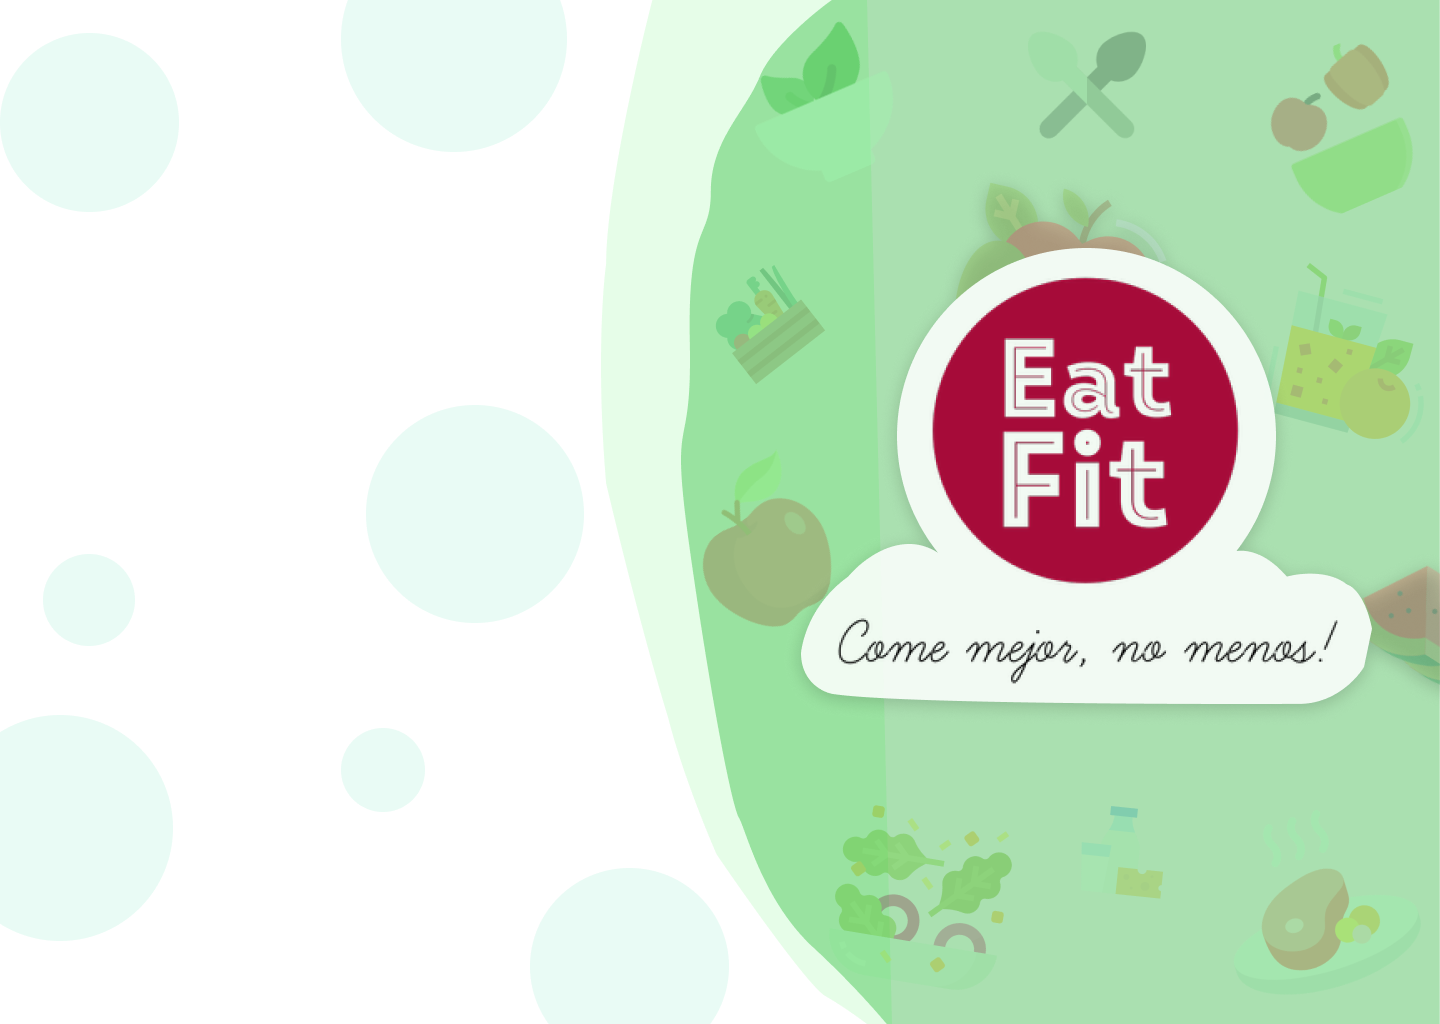
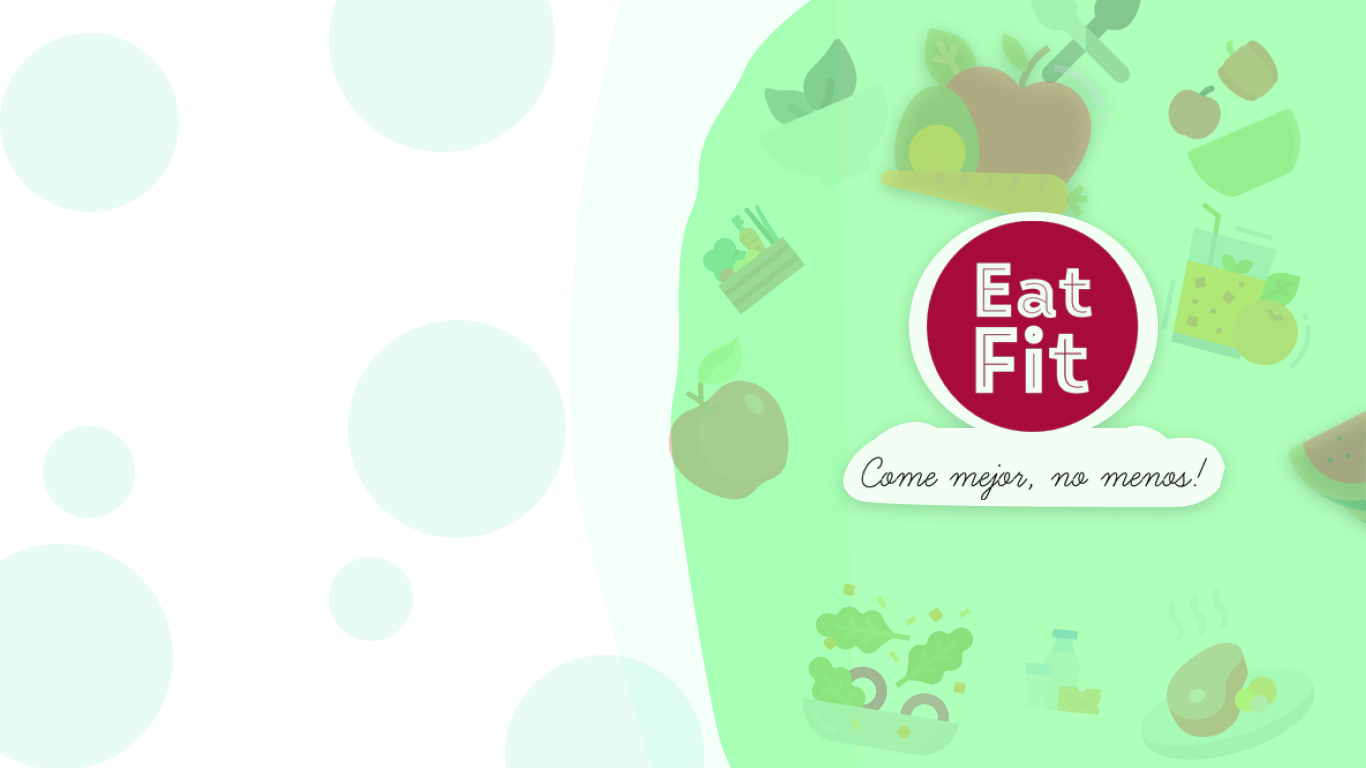
landing corregida

diff --git a/templates/landing.html b/templates/landing.html
@@ -10,44 +10,34 @@
     <link rel="stylesheet" href="{% static 'css/styleN.css' %}"/>
 
 </head>
-<body>
-    
-<div class="col-6 align-items-center alto center">
+<body class="h-100 fondo">
 
-    <div class="">
-        <h4 class="text-center py-3 mx-5 px-5"> Tu mala alimentación de hoy, serán tus problemas de salud mañana</h4>
-        <div class="row justify-content-center">
-            <a type="button"class="btn btn-light" href=" {% url 'login' %} ">Iniciar sesion</a>
-            <p class="mx-3"></p>
-            <a type="button" class="btn btn-dark"  href=" {% url 'register' %} ">Registrarse</a>
-        </div>
-            
-       
-        <div class="col align-self-center  altoContacto mt-5">
-            <p class="font-weight-bold text-center">Contacto@eatfit.com</p>
+    <div class="col-12 col-lg-6 col-sm-8 align-items-center alto center">
+        <div class="">
+            <h4 class="text-center py-3 mx-5 px-5"> Tu mala alimentación de hoy, serán tus problemas de salud mañana</h4>
             <div class="row justify-content-center">
-                <a href="https://twitter.com/">
-                    <img src=" {% static 'img/icono_twitter.png' %} " width="37" height="37" />
-                </a>
-                <a href="https://www.whatsapp.com/">
-                    <img src=" {% static 'img/icono_whatsapp.png' %} " width="37" height="37" />
-                </a>
-                <a href="https://www.facebook.com/">
-                    <img src=" {% static 'img/icono_facebook.png' %} " width="37" height="37" />
-                </a>
+                <a type="button"class="btn btn-light" href=" {% url 'login' %} ">Iniciar sesion</a>
+                <p class="mx-3"></p>
+                <a type="button" class="btn btn-dark"  href=" {% url 'register' %} ">Registrarse</a>
+            </div>
+                
+        
+            <div class="col align-self-center  altoContacto mt-5">
+                <p class="font-weight-bold text-center">Contacto@eatfit.com</p>
+                <div class="row justify-content-center">
+                    <a href="https://twitter.com/">
+                        <img src=" {% static 'img/icono_twitter.png' %}  " width="45" height="45" />
+                    </a>
+                    <a href="https://www.whatsapp.com/">
+                        <img src=" {% static 'img/icono_whatsapp.png' %} " width="45" height="45" />
+                    </a>
+                    <a href="https://www.facebook.com/">
+                        <img src=" {% static 'img/icono_facebook.png' %} " width="45" height="45" />
+                    </a>
+                </div>
             </div>
         </div>
-    
-        
     </div>
-    
-</div>
-
 
 </body>
 </html>
-
-
-{% comment %} 
-<a type="button" class="btn btn-light" href=" {% url 'login' %} ">Iniciar sesion</a>
-    <a type="button" class="btn btn-dark"  href=" {% url 'register' %} ">Registrarse</a> {% endcomment %}

diff --git a/static/css/styleN.css b/static/css/styleN.css
@@ -9,10 +9,6 @@
     height: 100vh;
 }
 
-/* .altoContacto {
-    margin-top: 250px;
-} */
-
 h4{  
 font-family: 'Spectral SC';
 font-size: 50px !important;
@@ -23,12 +19,12 @@ align-items: center;
 justify-content: center;
 }
 
-body{ 
-
+.fondo{ 
     background-image: url("/static/img/fondo_landing.png");
-    background-size: cover;
+    height: 100%;
+    width: 100%;
+    background-size:cover !important;
     background-repeat: no-repeat;
-
 }
 
 .btn-light{ 

diff --git a/templates/users/login.html b/templates/users/login.html
@@ -1,5 +1,5 @@
 <!DOCTYPE html>
-<html lang="en">
+<html lang="es">
 <head>
     <meta charset="UTF-8">
     <meta name="viewport" content="width=device-width, initial-scale=1.0">
